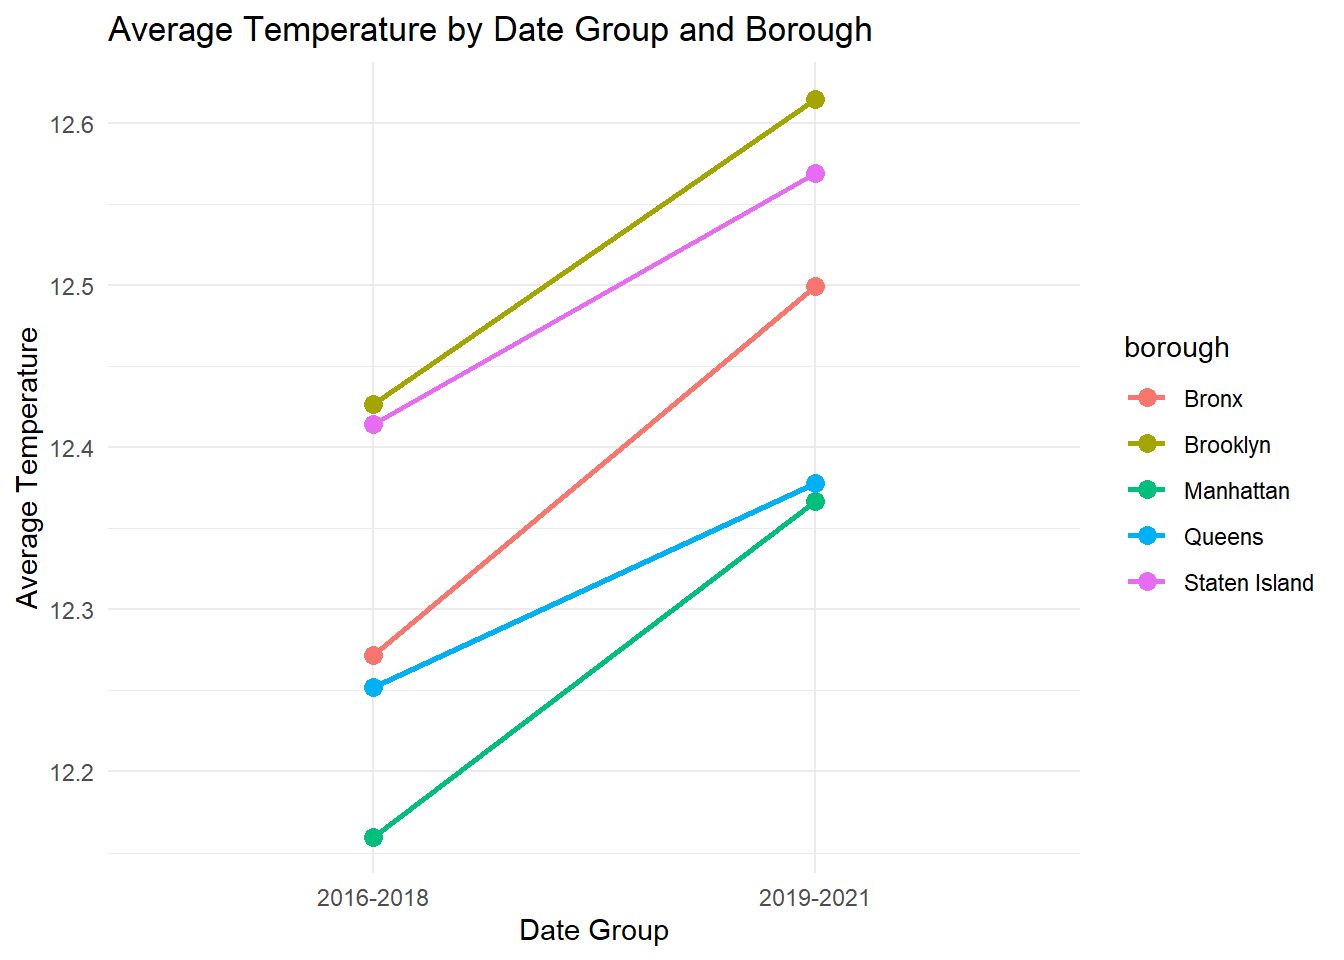
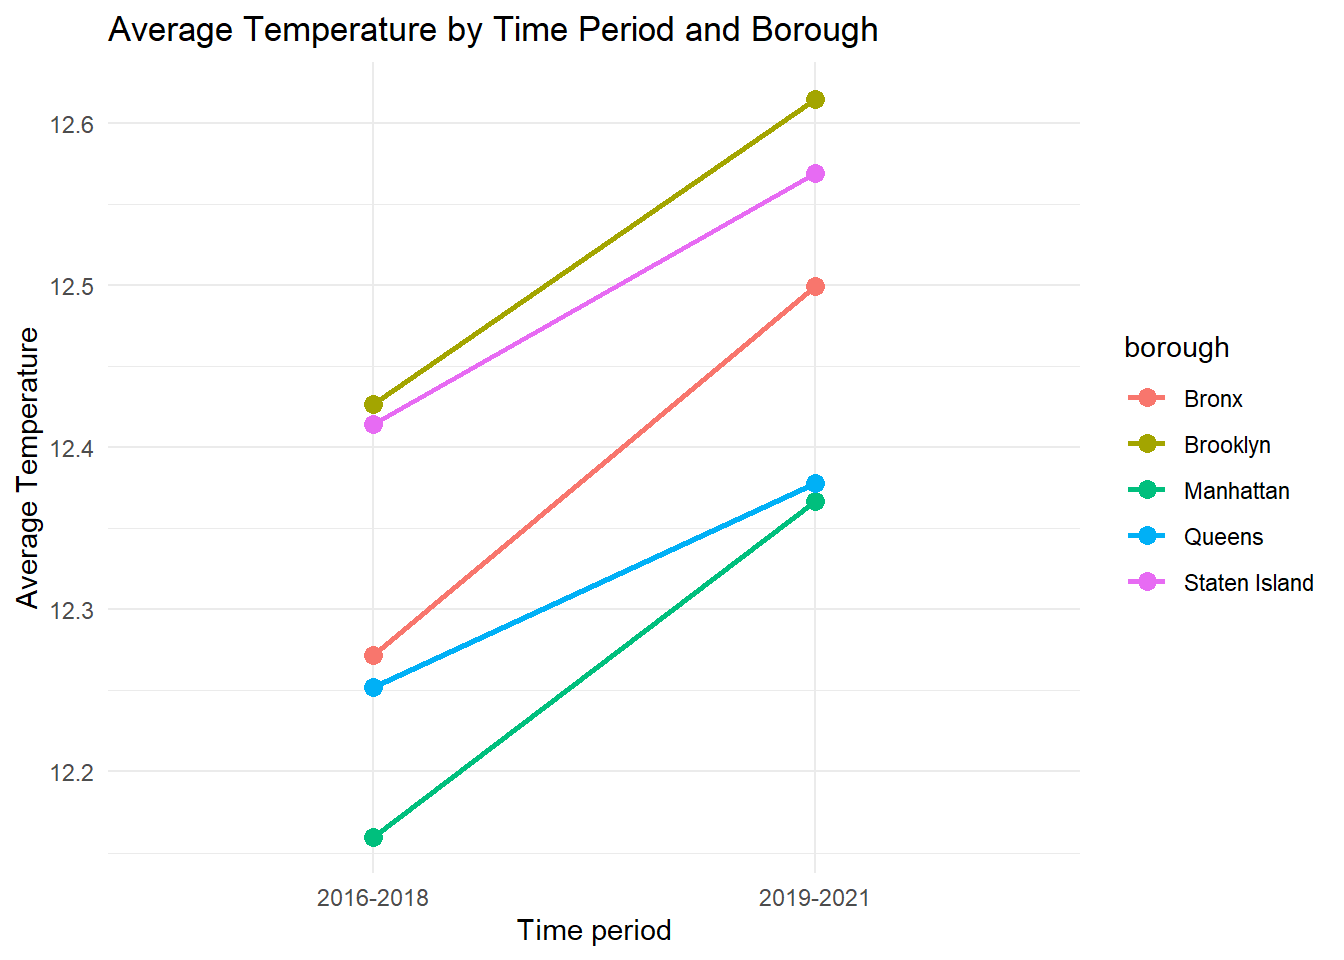
Update temperature data plot descriptions

Changed region(s): [[0.375, 0.0, 0.6562, 0.0625], [0.375, 0.9375, 0.5, 1.0]]

diff --git a/exploratory_data_analysis.html b/exploratory_data_analysis.html
@@ -1303,23 +1303,23 @@ their different locations and urban characteristics, the boroughs appear
 to have very similar temperature profiles throughout the study period,
 suggesting consistent climate patterns across New York City.</p>
 </div>
-<div id="average-temperature-change-by-borough" class="section level4">
-<h4>Average temperature change by borough</h4>
-<p>There has been mean temperature change between years but it is steady
-overall across the boroughs.</p>
-<pre class="r"><code># Produce average temperature table
+<div id="average-temperature-change-by-borough-2016-2021"
+class="section level4">
+<h4>Average temperature change by borough (2016-2021)</h4>
+<pre class="r"><code># Produce average temperature table with rounded values
 
-mean_temp_table = mean_temp_year |&gt; 
-  select(borough, years, mean_temp) |&gt; 
+mean_temp_year |&gt; 
+  select(years, borough, mean_temp) |&gt; 
+  mutate(mean_temp = round(mean_temp, 3)) |&gt;
   pivot_wider(
     names_from = borough,
     values_from = mean_temp
-  )
-knitr::kable(mean_temp_table)</code></pre>
+  ) |&gt;
+  knitr::kable(col.names = c(&quot;Years&quot;, &quot;Bronx&quot;, &quot;Brooklyn&quot;, &quot;Manhattan&quot;, &quot;Queens&quot;, &quot;Staten Island&quot;))</code></pre>
 <table>
 <thead>
 <tr class="header">
-<th align="right">years</th>
+<th align="right">Years</th>
 <th align="right">Bronx</th>
 <th align="right">Brooklyn</th>
 <th align="right">Manhattan</th>
@@ -1330,69 +1330,90 @@ knitr::kable(mean_temp_table)</code></pre>
 <tbody>
 <tr class="odd">
 <td align="right">2016</td>
-<td align="right">12.49891</td>
-<td align="right">12.75929</td>
-<td align="right">12.39290</td>
-<td align="right">12.66175</td>
-<td align="right">12.70710</td>
+<td align="right">12.499</td>
+<td align="right">12.759</td>
+<td align="right">12.393</td>
+<td align="right">12.662</td>
+<td align="right">12.707</td>
 </tr>
 <tr class="even">
 <td align="right">2017</td>
-<td align="right">12.23123</td>
-<td align="right">12.40219</td>
-<td align="right">12.15260</td>
-<td align="right">12.14411</td>
-<td align="right">12.39288</td>
+<td align="right">12.231</td>
+<td align="right">12.402</td>
+<td align="right">12.153</td>
+<td align="right">12.144</td>
+<td align="right">12.393</td>
 </tr>
 <tr class="odd">
 <td align="right">2018</td>
-<td align="right">12.08466</td>
-<td align="right">12.11808</td>
-<td align="right">11.93342</td>
-<td align="right">11.94959</td>
-<td align="right">12.14192</td>
+<td align="right">12.085</td>
+<td align="right">12.118</td>
+<td align="right">11.933</td>
+<td align="right">11.950</td>
+<td align="right">12.142</td>
 </tr>
 <tr class="even">
 <td align="right">2019</td>
-<td align="right">11.98082</td>
-<td align="right">12.12384</td>
-<td align="right">11.85068</td>
-<td align="right">11.86000</td>
-<td align="right">12.09753</td>
+<td align="right">11.981</td>
+<td align="right">12.124</td>
+<td align="right">11.851</td>
+<td align="right">11.860</td>
+<td align="right">12.098</td>
 </tr>
 <tr class="odd">
 <td align="right">2020</td>
-<td align="right">12.86639</td>
-<td align="right">12.95492</td>
-<td align="right">12.68251</td>
-<td align="right">12.72459</td>
-<td align="right">12.85464</td>
+<td align="right">12.866</td>
+<td align="right">12.955</td>
+<td align="right">12.683</td>
+<td align="right">12.725</td>
+<td align="right">12.855</td>
 </tr>
 <tr class="even">
 <td align="right">2021</td>
-<td align="right">12.65096</td>
-<td align="right">12.76575</td>
-<td align="right">12.56630</td>
-<td align="right">12.54767</td>
-<td align="right">12.75479</td>
+<td align="right">12.651</td>
+<td align="right">12.766</td>
+<td align="right">12.566</td>
+<td align="right">12.548</td>
+<td align="right">12.755</td>
 </tr>
 </tbody>
 </table>
+<p>The table presents annual mean temperatures across New York City’s
+five boroughs from 2016 to 2021. There is a notable downward trend from
+2016 to 2019, with temperatures decreasing by approximately 0.5-0.7°C
+across all boroughs. In 2020, there was a marked increase in
+temperatures, with all boroughs reaching their highest values since
+2016, averaging around 12.8°C.</p>
+<p>Temperatures remained elevated in 2021, though slightly lower than
+2020 peaks. Throughout the period, Brooklyn and Staten Island
+consistently maintained slightly higher average temperatures compared to
+the other boroughs, while Manhattan generally recorded the lowest
+average temperatures.</p>
 </div>
 <div id="average-temperature-by-year-group-and-borough"
 class="section level4">
 <h4>Average temperature by year group and borough</h4>
-<p>In terms of analysis by the year group 2016-2018 and 2019-2021. There
-has been mean temperature increase among all boroughs. Manhattan and
-Bronx showed the biggest increase.</p>
-<pre class="r"><code>ggplot(data = all_temp_borough, aes(x = data_years, y = avg_temperature, color = borough)) +
+<pre class="r"><code># Plot for average temperature by year group and borough
+
+ggplot(data = all_temp_borough, aes(x = data_years, y = avg_temperature, color = borough)) +
   geom_point(size = 3) +
   geom_line(aes(group = borough), size = 1) +
-  labs(title = &quot;Average Temperature by Date Group and Borough&quot;,
-       x = &quot;Date Group&quot;,
+  labs(title = &quot;Average Temperature by Time Period and Borough&quot;,
+       x = &quot;Time period&quot;,
        y = &quot;Average Temperature&quot;) +
   theme_minimal()</code></pre>
 <p><img src="exploratory_data_analysis_files/figure-html/unnamed-chunk-21-1.png" width="672" /></p>
+<p>This graph illustrates the change in average temperatures across New
+York City’s boroughs between two time periods: 2016-2018 and 2019-2021.
+All boroughs experienced an increase in average temperature between
+these periods, with Manhattan and Bronx showing the most pronounced
+increases. Brooklyn consistently maintained the highest average
+temperatures across both periods, starting at approximately 12.42°C and
+rising to 12.62°C, while Manhattan, despite its significant increase,
+recorded the lowest temperatures in both periods. The parallel upward
+trends across all boroughs suggest a consistent citywide warming
+pattern, with temperatures rising by roughly 0.2-0.3°C between the two
+time periods.</p>
 </div>
 </div>
 </div>
